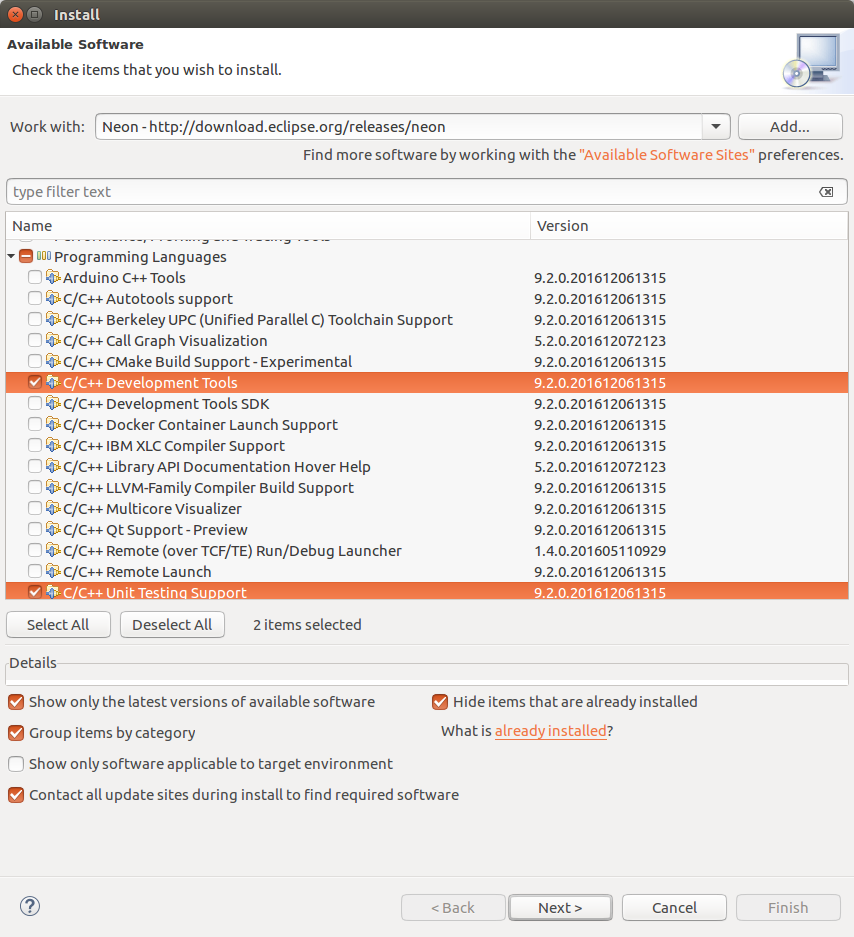
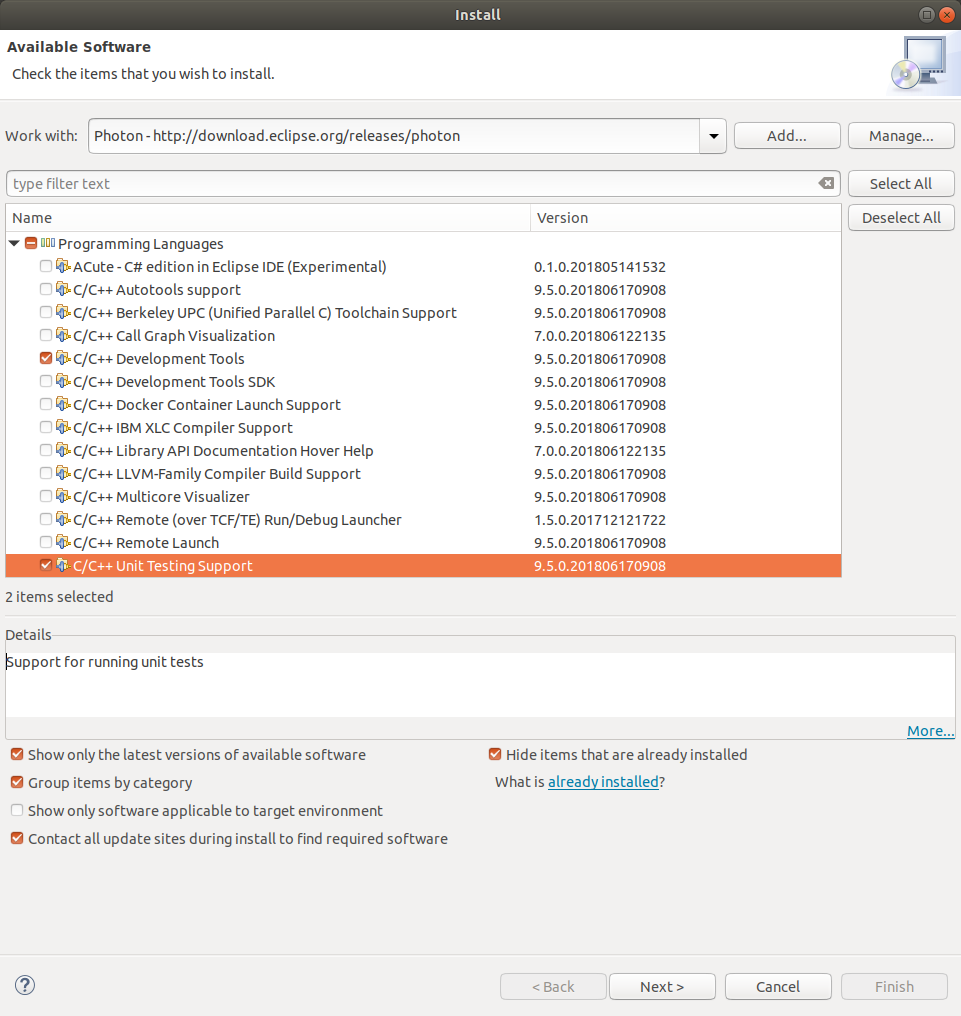
Issue #155: Rework of the 4th part 'Development with Eclipse'

diff --git a/doc/dev_infrastructure/ttool_development_infrastructure.tex b/doc/dev_infrastructure/ttool_development_infrastructure.tex
@@ -138,13 +138,15 @@ the development of TTool. It describes sources configuration management, the
 development process with basic editor and command lines, with the Eclipse IDE,
 as well as the testing, building and installation procedures.
 
+\newpage 
+
 \section{Source Configuration Management}
 \label{sec:scm}
 
 \subsection{Gitlab Server}
 
-TTool sources are hosted on the Gitlab server of Telecom ParisTech under the
-group \textit{mbe}\textit{-tools} and project \textit{TTool}. The Gitlab project
+TTool sources are hosted on the Gitlab server of \textbf{Telecom ParisTech} under the
+group \textbf{\textit{mbe}\textit{-tools}} and project \textbf{\textit{TTool}}. The Gitlab project
 can be accessed via \url{https://gitlab.telecom-paristech.fr/users/sign_in}. 
 Login must be performed using Shibboleth as shown in
 figure~\ref{fig:image1}, using the credentials from your institution if it is a
@@ -226,28 +228,28 @@ In particular, compiling the sources of all subprojects can be done with the
 42sh$ make all
 \end{verbatim}
 
+\newpage
 
 \section{Development with Eclipse}
 
-Eclipse is a well-known Integrated Development Environment (IDE) providing many advanced functionalities to support developers and improve code quality by the application of built-in on the fly code analyses. One advantage of Eclipse is that it is a multi-platform application so it can be used on Linux, Windows and Mac. The procedures described in this section are valid for all platforms although some elements such as C++ projects need to be different due to different platform-specific compilation tool chains to be used. More information on this is provided on the concerned subsections. \\
+Eclipse is a well-known Integrated Development Environment (IDE) providing many advanced functionalities to support developers and improve code quality by the application of built-in on the fly code analyses. One advantage of Eclipse is that it is a \textbf{multi-platform application} so it can be used on Linux, Windows and macOS. The procedures described in this section are valid for all platforms although some elements such as C++ projects need to be different due to different platform-specific compilation tool chains to be used. More information on this is provided on the concerned subsections.
 
 \subsection{Installing and Configuring Eclipse}
 
 Download Eclipse IDE for Java developers here: \\
 \url{http://www.eclipse.org/downloads/packages/release/photon/r/eclipse-ide-java-developers}
-\\
 
 Unzip the package and launch the eclipse executable. For developing C++
 applications such as the DIPLODOCUS simulator, add the C Development Tools
-(CDT). For this, select menu ``Help >> Install New Software''.
-From the dialog box that opens, select the ``Neon'' update site, unfold the
-``Programming Languages'' category and check the elements as shown in
+(CDT). For this, select menu ``\textbf{Help >> Install New Software}''.
+From the dialog box that opens, select the ``\textbf{Photon}'' update site, unfold the
+``\textbf{Programming Languages}'' category and check the elements as shown in
 figure~\ref{fig:image2}. Follow the wizard instructions to complete the
 installation.
 
 \begin{figure}[H]
 \begin{center}
-\includegraphics[width=\textwidth]{images/image3.png}
+\includegraphics[width=0.9\textwidth, height=0.5\textheight]{images/image3.png}
 \caption{}
 \label{fig:image2}
 \end{center}
@@ -255,7 +257,7 @@ installation.
 
 \subsection{Online Help}
 
-The first place to look for help is in via menu ``Help>>Help Content'' from
+The first place to look for help is in via menu ``\textbf{Help >> Help Content}'' from
 Eclipse. A dialog box will show a tree with branches for each integrated plugin
 or application. Help is provided for the 3 plugins that are used to develop
 TTool; EGit, Java Development Tools and C/C++ Development Tools.
@@ -268,7 +270,7 @@ configuration management using Git.
 \subsubsection{Cloning the TTool Repository}
 
 First, switch to the Git perspective by clicking menu
-``Window>>Perspective>>Open Perspective>>Other''. Then select the Git
+``\textbf{Window >> Perspective >> Open Perspective >> Other}''. Then select the Git
 perspective as illustrated in figure~\ref{fig:image3}.
 
 \begin{figure}[H]
@@ -280,7 +282,7 @@ perspective as illustrated in figure~\ref{fig:image3}.
 \end{figure}
 
 Then clone the TTool Git repository by clicking the appropriate button as shown
-in figure~\ref{fig:image4}. Specify the TTool Git repository URI
+in figure~\ref{fig:image4}. Specify the \textbf{TTool Git repository URI}
 (git@gitlab.enst.fr:mbe-tools/TTool.git) and follow the wizard by also setting
 the local Git repository path.
 
@@ -293,7 +295,7 @@ the local Git repository path.
 \end{figure}
 
 The content of the cloned repository can be seen from the Git Repository view by
-unfolding the ``Working Tree'' folder (figure~\ref{fig:image5}).
+unfolding the ``\textbf{Working Tree}'' folder (figure~\ref{fig:image5}).
 
 \begin{figure}[H]
 \begin{center}
@@ -308,31 +310,31 @@ unfolding the ``Working Tree'' folder (figure~\ref{fig:image5}).
 
 Two Eclipse Java projects are needed to develop TTool: the \textit{bin} project
 that contains the required libraries (jars) and the \textit{src} project that
-contains the source code. Install these 2 projects in the workspace by
-right-clicking the ``Working Tree'' it in the Git repository view and
-selecting ``Import Projects\ldots'' as shown in figure~\ref{fig:image5}.
+contains the source code. Install these two projects in the workspace by
+right-clicking the ``\textbf{Working Tree}'' it in the Git repository view and
+selecting ``\textbf{Import Projects}\ldots'' as shown in figure~\ref{fig:image5}.
 
-Then select ``Import existing Eclipse projects'' as shown in
+Then select ``\textbf{Import existing Eclipse projects}'' as shown in
 figure~\ref{fig:image6} and follow the steps of the wizard.
-
-\begin{figure}[H]
-\begin{center}
-\includegraphics[width=0.7\textwidth]{images/image7.png}
-\end{center}
-\caption{}
-\label{fig:image6}
-\end{figure}
 
 \subsubsection{Committing, Pulling and Pushing Changes}
 
 Committing the changes of a file or a directory or a project is performed by
 selecting this element in the project navigator view then selecting
-``Team>>Commit''. This will open the Git Staging view for where the changed
+``\textbf{Team >> Commit}''. This will open the Git Staging view for where the changed
 files are listed. Double clicking a file in the unstaged changes view will open
 an editor allowing visualizing the changes (figure~\ref{fig:image7}). Right click and select
-``Add to Index'', then enter a commit message and click the ``Commit'' button to
+``\textbf{Add to Index}'', then enter a commit message and click the ''\textbf{Commit}'' button to
 commit the changes. Pushing and pulling can be performed by selecting the repository from
 the Git repository view or the elements from the project view.
+
+\begin{figure}[H]
+\begin{center}
+\includegraphics[width=0.6\textwidth]{images/image7.png}
+\end{center}
+\caption{}
+\label{fig:image6}
+\end{figure}
 
 \begin{figure}[H]
 \begin{center}
@@ -347,11 +349,11 @@ the Git repository view or the elements from the project view.
 \subsubsection{Coding and Compiling}
 
 Switch to the Java perspective to develop TTool with JDT (select menu
-``Windows>>Perspective\ldots'' or select the appropriate perspective button from
+``\textbf{Windows >> Perspective}\ldots'' or select the appropriate perspective button from
 the upper right corner of Eclipse). By default Eclipse will automatically
 compile all files in the project. However the provided projects have already
 been configured so that only the required classes are compiled and also to use
-the required library files from the \textit{bin} project.
+the required library files from the \textbf{\textit{bin}} project.
 
 JDT provides several advanced functionalities such as automatically navigating
 from a variable to its declaration, finding its use throughout all the classes,
@@ -360,9 +362,9 @@ including refactoring capabilities, syntactic coloration, code completion, etc.
 \subsubsection{Launching TTool}
 \label{sec:launch}
 
-A default launch configuration is provided with the TTool \textit{src} project.
+A default launch configuration is provided with the TTool \textbf{\textit{src}} project.
 It allows for launching TTool from the compiled code. This configuration can be
-edited by opening the \textit{Run Configurations} dialog box as show in figure~\ref{fig:image8}.
+edited by opening the \textbf{\textit{Run Configurations}} dialog box as show in figure~\ref{fig:image8}.
 
 \begin{figure}[H]
 \begin{center}
@@ -375,7 +377,7 @@ edited by opening the \textit{Run Configurations} dialog box as show in figure~\
 The TTool launch configuration is displayed in figure~\ref{fig:image9}. It
 specifies the main class to execute as well as the program arguments, working directory and
 optionally additional environment variables to be added to the default system
-environment. Click \textit{Run} to launch TTool. The output from TTool will be
+environment. Click \textbf{\textit{Run}} to launch TTool. The output from TTool will be
 displayed in the console view. Once TTool has been launched once, simply
 clicking the button to open the launch dialog box will directly launch TTool so
 that it is not necessary to open the launch dialog box every time.
@@ -393,7 +395,7 @@ that it is not necessary to open the launch dialog box every time.
 In addition, JDT provides an enhanced debugger allowing executing the program
 step by step with sophisticated breakpoints to control the execution and to
 examine variable contents etc. However to use the debugger, the proper launch
-configurations must be used by clicking the \textit{debug}
+configurations must be used by clicking the \textbf{\textit{debug}}
 button just left of the launch configuration button of figure~\ref{fig:image8}.
 
 \subsection{C++ Development}
@@ -420,42 +422,42 @@ must first be imported into the workspace as explained in
 section~\ref{sec:import}. Note that for CDT, the projects are platform dependent
 due to the different compilation toolchains (Cygwin is used for Windows) so there is one project per
 platform. For instance, for developing the DIPLODOCUS simulator on Linux, import
-the \textit{c++}\textit{2} project. For windows, import the
-\textit{c++}\textit{2 $  \_  $ windows} project (TODO to be provided later). CDT
+the \textbf{\textit{c++2} project}. For windows, import the
+\textbf{\textit{c++2 $  \_  $ windows} project} (TODO to be provided later). CDT
 provides the ability to define several build configurations. For the
-\textit{c++}\textit{2} project, two configurations are provided as shown in
+\textbf{\textit{c++2} project}, two configurations are provided as shown in
 figure~\ref{fig:image11}.
 
 \begin{figure}[H]
 \begin{center}
-\includegraphics[width=\textwidth]{images/image12.png}
+\includegraphics[width=0.9\textwidth, height=0.38\textheight]{images/image12.png}
 \end{center}
 \caption{}
 \label{fig:image11}
 \end{figure}
 
-The \textit{TTool} configuration will compile the code using the provided make
-file as if the simulator were compiled from TTool. The \textit{Debug}
-configuration allows for compiling TTool such that it can be executed in debug
+The \textbf{\textit{TTool} configuration} will compile the code using the provided make
+file as if the simulator were compiled from TTool. The \textbf{\textit{Debug}
+configuration} allows for compiling TTool such that it can be executed in debug
 mode. The selected button in figure~\ref{fig:image11} allows changing the configuration being
 used. The hammer button on the right hand side of it allows compiling and
 linking the code.
 
 The settings for these build configurations can be edited by selecting the
 \textit{c++2} project in the project navigator and clicking
-``Properties''. For the \textit{Debug} configuration, the CDT internal builder
+``\textbf{Properties}''. For the \textbf{\textit{Debug} configuration}, the CDT internal builder
 is used. This means that the compilation and linking options can be changed via
 the form editor shown in figure~\ref{fig:image12}.
 
 \begin{figure}[H]
 \begin{center}
-\includegraphics[width=\textwidth]{images/image13.png}
+\includegraphics[width=0.9\textwidth]{images/image13.png}
 \end{center}
 \caption{}
 \label{fig:image12}
 \end{figure}
 
-Note that the code provided by default in the \textit{c++2} project
+Note that the code provided by default in the \textbf{\textit{c++2} project}
 from the Git repository does not compile by itself. TTool must first be executed
 to generate the classes specific to the system being simulated. Once this is
 done, the simulator can be compiled and executed from CDT for the desired build
@@ -466,15 +468,17 @@ configuration.
 Like for JDT, the launch of C++ applications can be specified using the launch
 configurations dialog as introduced in section~\ref{sec:launch}. One launch
 configuration is provided for each build configuration and named
-\textit{c++2 TTool} and \textit{c++2 Debug}.
+\textbf{\textit{c++2 TTool}} and \textbf{\textit{c++2 Debug}}.
 
 \subsubsection{Using the Debugger}
 
 The CDT debugger is very similar to the JDT debugger. However to be able to use
-it only the \textit{c++2 Debug} launch configuration should be used and
-triggered from the \textit{Debug As} button. By default, the program execution
+it only the \textbf{\textit{c++2 Debug} launch configuration} should be used and
+triggered from the \textbf{\textit{Debug As} button}. By default, the program execution
 will automatically stop at the first instruction of the program. This behavior
 can be changed by editing the debug launch configuration.
+
+\newpage
 
 \section{Development with IntelliJ}
 
@@ -593,6 +597,8 @@ and select \emph{Reformat code}.
 
 Note that there is a vim plugin available in IntelliJ that supports some of vim
 commands.
+
+\newpage 
 
 \section{Coding Information}
 Here are gathered all tricks on how TTool source codes are organized, and what function is coded where, and also how to extend TTool, e.g. adding a new diagram.
